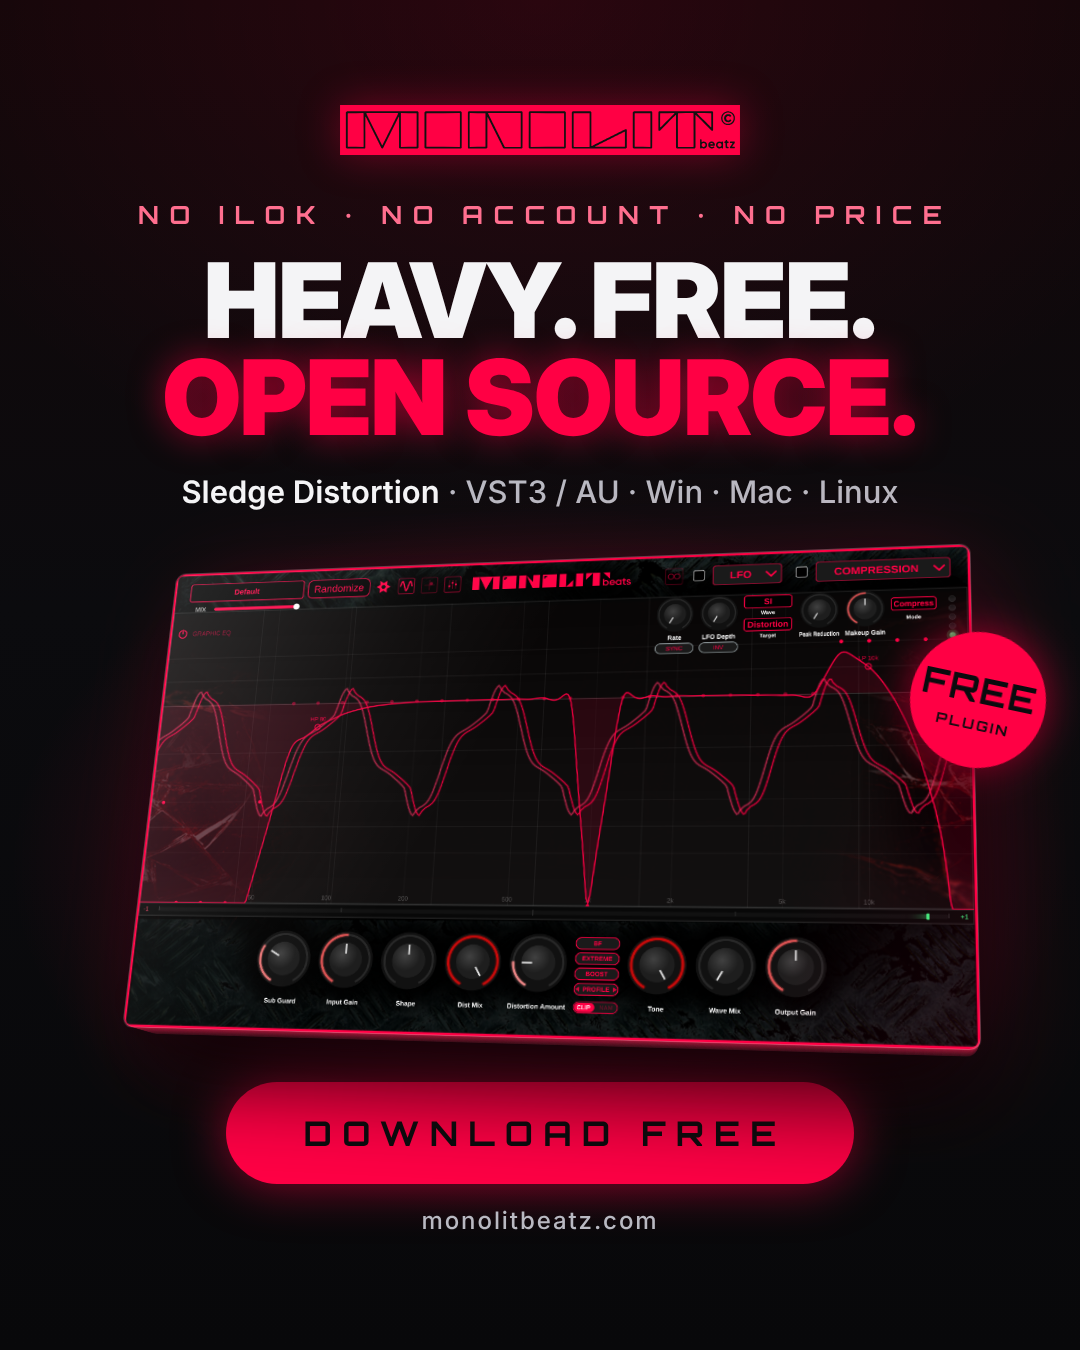
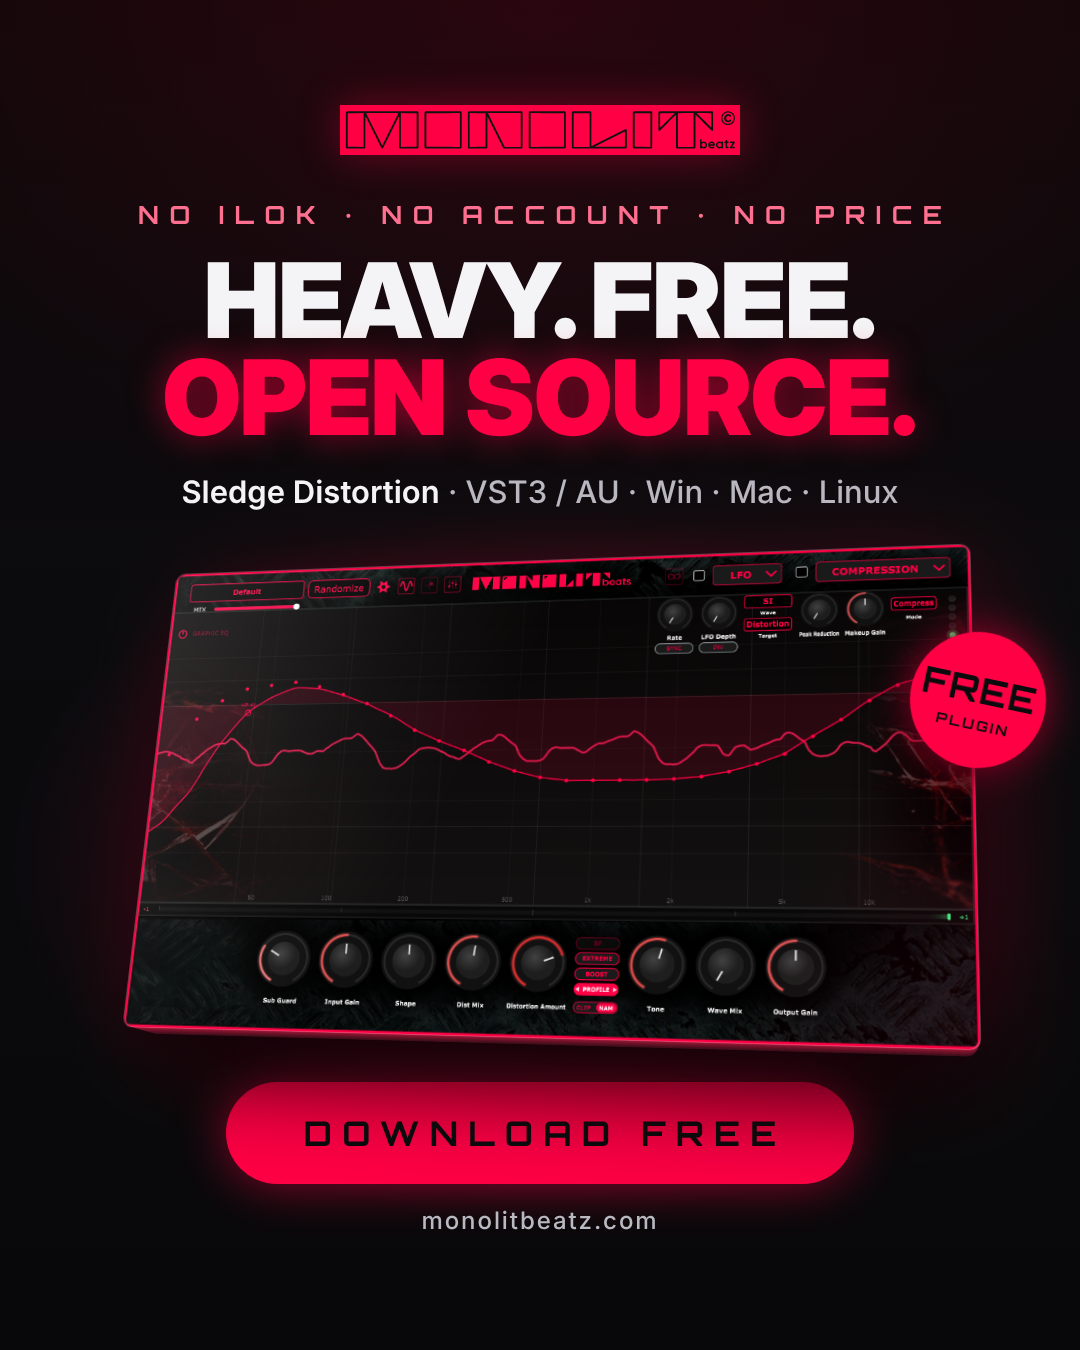
chore: bring back the README screenshot on the launch post
Keep the 3x pipeline and vector logo, but show the plugin as in the README screenshot (EQ curve, NAM profile) rather than the snapshot tool's sample state.

diff --git a/marketing/launch/render.js b/marketing/launch/render.js
@@ -3,7 +3,9 @@
 //   sledge-launch-feed.png / -story.png               1080 px wide, ready to post
 // Then: python3 marketing/launch/make-pdf.py packs the 3x images into one PDF.
 //
-// The plugin screenshot (assets/ui.png) is the editor painted at 3x pixel density:
+// The plugin screenshot (assets/ui.png) is docs/images/interface-eq-lfo-compression.png
+// cropped to the plugin's frame (1200x705, version stamp hidden). For a sharper
+// one, the editor can be painted at 3x pixel density instead:
 //   build/DistortionUiSnapshot_artefacts/Release/DistortionUiSnapshot \
 //     --scale 100 --eq --signal --pixel-scale 3 --marketing --out <dir>
 // Chromium rasterizes the tilted (3D) screen below the page's density, which
